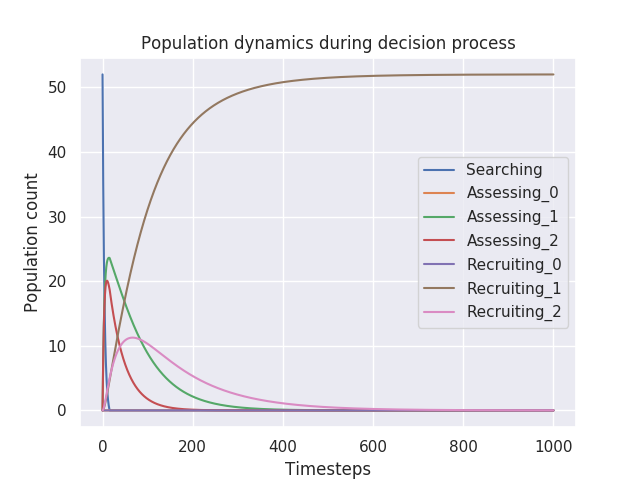
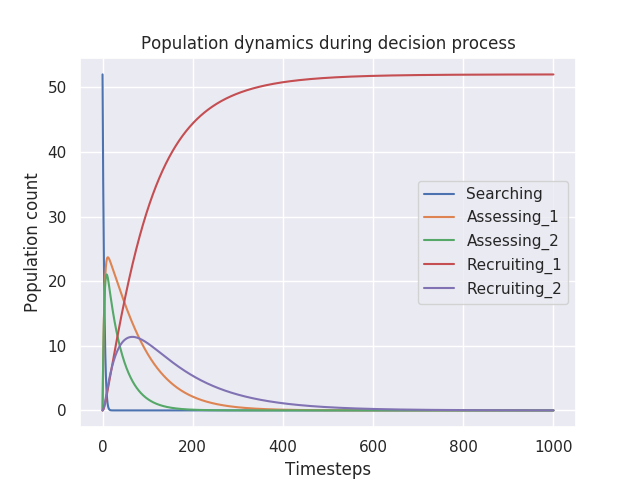
Updates pratt 2002

diff --git a/pratt_2002/continuous.py b/pratt_2002/continuous.py
@@ -29,7 +29,7 @@ sns.set()
 
 # Populations: [S, A, R, P]
 
-T = 20
+T = 10
 M = 3
 N = 208  # SD 99
 p = 0.25 # SD 0.1
@@ -38,20 +38,8 @@ final_percentage = 0.95
 rho = defaultdict(lambda : 0)
 rho[(2, 1)] = 0.008
 
-# From Granivoskiy 2012
-# SearchE = 0.0191
-# SearchA = 0.0195
-# SearchC(L) = 0.018
-# SearchC(C) = 0.0044
-
 alpha = [0.0, 0.015, 0.02]
 phi = [0.0, 0.13, 0.13]
-sigmaA  = [0.0, 0.0195, 0.0195]
-sigmaL  = [0.0, 0.018,  0.018]
-sigmaC  = [0.0, 0.044,  0.044]
-#sigmaA  = [0.0, 0.0,   0.0]
-#sigmaL  = [0.0, 0.0,   0.0]
-#sigmaC  = [0.0, 0.0,   0.0]
 lambdas = [0.0, 0.033, 0.033]
 tau     = 0.001
 
@@ -68,7 +56,8 @@ def pack(S=0, A=[], R=[], P=[]):
     return [S, *A, *R, *P]
 
 def I(Ri, S):
-    return Ri if Ri < T and S > 0 else 0
+    return Ri * S
+    return Ri if Ri < T and S >= 0 else 0
 
 def dS(Population):
     S, A, R, P = unpack(Population, M)
@@ -124,7 +113,7 @@ for do_passive in [True, False]:
             if 'Passive' in label:
                 plt.plot(ts, pop, label=label)
         else:
-            if 'Passive' not in label:
+            if 'Passive' not in label and (i - 1) % M != 0:
                 plt.plot(ts, pop, label=label)
 
     plt.legend(loc='center right', bbox_to_anchor=(1, 0.5))
